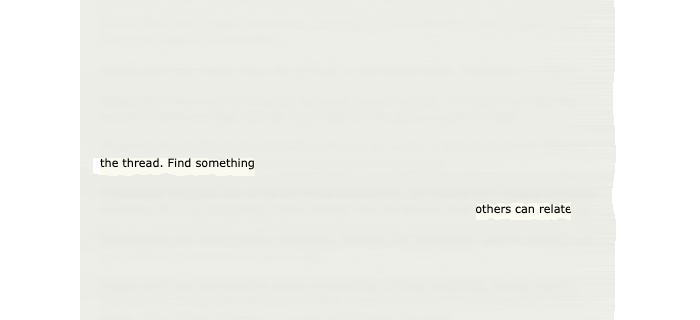
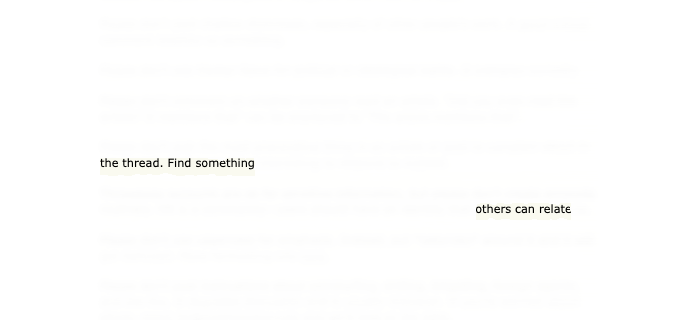
docs: correct the fluid rule, re-render samples
The page said fluid goes darker where there is no headroom to lighten
into, which is what inverted the look.

All three samples move to the Hacker News guidelines, whose paper is
cream. A white page cannot show fluid at all, so the old side by side
demonstrated nothing about the material.

diff --git a/README.md b/README.md
@@ -84,7 +84,7 @@ Two styles. `black` lays an opaque bar over the erased words. `whiteout` is the 
 
 The fluid is mixed from the page rather than fixed. Sampling Ruefle's scan gives paper at `(237,212,188)` and fluid at `(244,240,242)`, so the rule is to take most of the color out of the background and raise its lightness. Applied to that same paper it returns `(245,243,241)`. That keeps the two in one family on any page, instead of dropping a white that belongs to no page onto a cream one or a dark one. `--fluid '#f5f3f1'` overrides it.
 
-A page already near white has nowhere lighter to go, so there the fluid goes slightly darker instead, and the stroke reads by its edges and texture rather than by its color.
+The fluid is never darker than the paper. Fluid sits on top of a page and catches more light than the page does, so mixing it darker reverses what the eye reads: the covered column turns into a wash, the paper around each surviving word turns into the brightest thing on the page, and the erasure looks applied to the words that were kept. Paper already at white gets fluid at white, and the stroke reads by its edges and its texture instead. A page can look blank where its words came out. It cannot look painted over the words that stayed.
 
 Neither style draws only over the words that were erased. The whole text column is covered first and the surviving words are composited back, because anything OCR failed to read would otherwise stay on the page. The whiteout is not fully opaque, so what ghosts through is bounded two ways: the column is blurred before it is covered, and the fluid never thins past `GHOST_FLOOR`. What shows is a word's shape and none of its letters.
 
